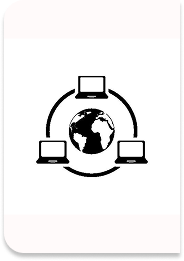
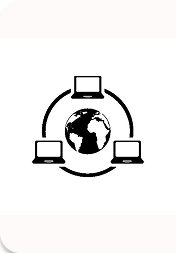
corrigindo bug em tela de minicursos
ajeitei as imagens que tinha borda invisivel e a versao de celular

Changed region(s): [[0.1705, 0.2767, 0.8239, 0.7194], [0.0, 0.913, 0.9943, 1.0]]

diff --git a/css/biblioteca-jogos.css b/css/biblioteca-jogos.css
@@ -29,7 +29,6 @@
 .imagens {
   border-radius: 1rem 0 0 1rem; /* 16px */
   overflow: hidden;
-  border: 0.125rem solid #e8e8e9; /* 2px */
   width: 8.4375rem; /* 135px */
   flex-shrink: 0;
   object-fit: cover;
@@ -177,7 +176,14 @@
   .imagens {
     width: 100%;
     border-radius: 1rem 1rem 0 0;
-    height: 12.5rem; /* 200px */
+    height: 10rem;
+    overflow: hidden;
+  }
+
+   .imagens img {
+    width: 100%;
+    height: 100%;
+    object-fit: contain; 
   }
 
   .card-content {
